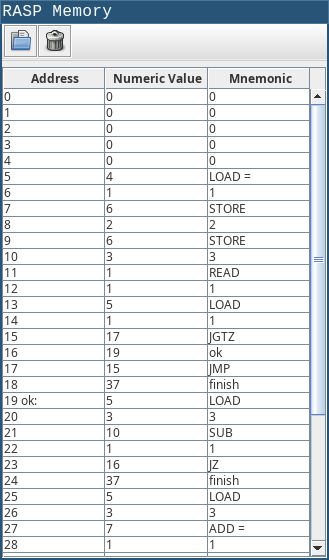
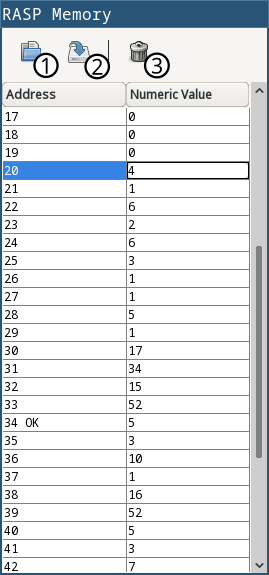
[#65, #58] RASP-mem rewrite

Changed region(s): [[0.0, 0.0, 1.0, 1.0]]

diff --git a/documentation/user/rasp/rasp-mem.html b/documentation/user/rasp/rasp-mem.html
@@ -1,1 +1,1 @@
-<!DOCTYPE html> <html lang="en-US"> <head> <meta charset="UTF-8"> <meta http-equiv="X-UA-Compatible" content="IE=Edge"> <title>Memory "rasp-mem" - User documentation for emuStudio</title> <link rel="shortcut icon" href="/documentation/user/favicon.ico" type="image/x-icon"> <link rel="stylesheet" href="/documentation/user/assets/css/just-the-docs-default.css"> <script async src="https://www.googletagmanager.com/gtag/js?id=UA-3492956-5"></script> <script> window.dataLayer = window.dataLayer || []; function gtag(){dataLayer.push(arguments);} gtag('js', new Date()); gtag('config', 'UA-3492956-5', { 'anonymize_ip': true }); </script> <script src="/documentation/user/assets/js/vendor/lunr.min.js"></script> <script src="https://cdn.jsdelivr.net/npm/mermaid@9.1.6/dist/mermaid.min.js"></script> <script src="/documentation/user/assets/js/just-the-docs.js"></script> <meta name="viewport" content="width=device-width, initial-scale=1"> <!-- Begin Jekyll SEO tag v2.8.0 --> <title>Memory “rasp-mem” | User documentation for emuStudio</title> <meta name="generator" content="Jekyll v4.3.1" /> <meta property="og:title" content="Memory “rasp-mem”" /> <meta property="og:locale" content="en_US" /> <meta name="description" content="User documentation for emuStudio 0.41. emuStudio is universal emulation platform and framework targeting mainly academic sphere." /> <meta property="og:description" content="User documentation for emuStudio 0.41. emuStudio is universal emulation platform and framework targeting mainly academic sphere." /> <link rel="canonical" href="/documentation/user/rasp/rasp-mem" /> <meta property="og:url" content="/documentation/user/rasp/rasp-mem" /> <meta property="og:site_name" content="User documentation for emuStudio" /> <meta property="og:type" content="website" /> <meta name="twitter:card" content="summary" /> <meta property="twitter:title" content="Memory “rasp-mem”" /> <script type="application/ld+json"> {"@context":"https://schema.org","@type":"WebPage","description":"User documentation for emuStudio 0.41. emuStudio is universal emulation platform and framework targeting mainly academic sphere.","headline":"Memory “rasp-mem”","publisher":{"@type":"Organization","logo":{"@type":"ImageObject","url":"/documentation/user/assets/logo-1.svg"}},"url":"/documentation/user/rasp/rasp-mem"}</script> <!-- End Jekyll SEO tag --> </head> <body> <a class="skip-to-main" href="#main-content">Skip to main content</a> <svg xmlns="http://www.w3.org/2000/svg" style="display: none;"> <symbol id="svg-link" viewBox="0 0 24 24"> <title>Link</title> <svg xmlns="http://www.w3.org/2000/svg" width="24" height="24" viewBox="0 0 24 24" fill="none" stroke="currentColor" stroke-width="2" stroke-linecap="round" stroke-linejoin="round" class="feather feather-link"> <path d="M10 13a5 5 0 0 0 7.54.54l3-3a5 5 0 0 0-7.07-7.07l-1.72 1.71"></path><path d="M14 11a5 5 0 0 0-7.54-.54l-3 3a5 5 0 0 0 7.07 7.07l1.71-1.71"></path> </svg> </symbol> <symbol id="svg-search" viewBox="0 0 24 24"> <title>Search</title> <svg xmlns="http://www.w3.org/2000/svg" width="24" height="24" viewBox="0 0 24 24" fill="none" stroke="currentColor" stroke-width="2" stroke-linecap="round" stroke-linejoin="round" class="feather feather-search"> <circle cx="11" cy="11" r="8"></circle><line x1="21" y1="21" x2="16.65" y2="16.65"></line> </svg> </symbol> <symbol id="svg-menu" viewBox="0 0 24 24"> <title>Menu</title> <svg xmlns="http://www.w3.org/2000/svg" width="24" height="24" viewBox="0 0 24 24" fill="none" stroke="currentColor" stroke-width="2" stroke-linecap="round" stroke-linejoin="round" class="feather feather-menu"> <line x1="3" y1="12" x2="21" y2="12"></line><line x1="3" y1="6" x2="21" y2="6"></line><line x1="3" y1="18" x2="21" y2="18"></line> </svg> </symbol> <symbol id="svg-arrow-right" viewBox="0 0 24 24"> <title>Expand</title> <svg xmlns="http://www.w3.org/2000/svg" width="24" height="24" viewBox="0 0 24 24" fill="none" stroke="currentColor" stroke-width="2" stroke-linecap="round" stroke-linejoin="round" class="feather feather-chevron-right"> <polyline points="9 18 15 12 9 6"></polyline> </svg> </symbol> <symbol id="svg-doc" viewBox="0 0 24 24"> <title>Document</title> <svg xmlns="http://www.w3.org/2000/svg" width="24" height="24" viewBox="0 0 24 24" fill="none" stroke="currentColor" stroke-width="2" stroke-linecap="round" stroke-linejoin="round" class="feather feather-file"> <path d="M13 2H6a2 2 0 0 0-2 2v16a2 2 0 0 0 2 2h12a2 2 0 0 0 2-2V9z"></path><polyline points="13 2 13 9 20 9"></polyline> </svg> </symbol> <!-- Feather. MIT License: https://github.com/feathericons/feather/blob/master/LICENSE --> <symbol id="svg-external-link" width="24" height="24" viewBox="0 0 24 24" fill="none" stroke="currentColor" stroke-width="2" stroke-linecap="round" stroke-linejoin="round" class="feather feather-external-link"> <title id="svg-external-link-title">(external link)</title> <path d="M18 13v6a2 2 0 0 1-2 2H5a2 2 0 0 1-2-2V8a2 2 0 0 1 2-2h6"></path><polyline points="15 3 21 3 21 9"></polyline><line x1="10" y1="14" x2="21" y2="3"></line> </symbol> </svg> <div class="side-bar"> <div class="site-header"> <a href="/documentation/user/" class="site-title lh-tight"> <div class="site-logo"></div> </a> <a href="#" id="menu-button" class="site-button"> <svg viewBox="0 0 24 24" class="icon"><use xlink:href="#svg-menu"></use></svg> </a> </div> <nav aria-label="Main" id="site-nav" class="site-nav"> <ul class="nav-list"><li class="nav-list-item"><a href="/documentation/user/introduction/" class="nav-list-link">Introduction</a></li><li class="nav-list-item"><a href="#" class="nav-list-expander" aria-label="toggle links in emuStudio Application category"> <svg viewBox="0 0 24 24"><use xlink:href="#svg-arrow-right"></use></svg> </a><a href="/documentation/user/application/" class="nav-list-link">emuStudio Application</a><ul class="nav-list "><li class="nav-list-item "><a href="/documentation/user/application/configuration-file" class="nav-list-link">Configuration file</a></li><li class="nav-list-item "><a href="/documentation/user/application/opening-computer" class="nav-list-link">Opening a computer</a></li><li class="nav-list-item "><a href="/documentation/user/application/computer-schema" class="nav-list-link">Computer schema</a></li><li class="nav-list-item "><a href="/documentation/user/application/main-window" class="nav-list-link">Main window</a></li><li class="nav-list-item "><a href="/documentation/user/application/automation" class="nav-list-link">Automation</a></li><li class="nav-list-item "><a href="/documentation/user/application/logging" class="nav-list-link">Logging</a></li></ul></li><li class="nav-list-item"><a href="#" class="nav-list-expander" aria-label="toggle links in MITS Altair8800 category"> <svg viewBox="0 0 24 24"><use xlink:href="#svg-arrow-right"></use></svg> </a><a href="/documentation/user/altair8800/" class="nav-list-link">MITS Altair8800</a><ul class="nav-list "><li class="nav-list-item "><a href="/documentation/user/altair8800/as-8080" class="nav-list-link">Assembler "as-8080"</a></li><li class="nav-list-item "><a href="/documentation/user/altair8800/as-z80" class="nav-list-link">Assembler "as-z80"</a></li><li class="nav-list-item "><a href="/documentation/user/altair8800/8080-cpu" class="nav-list-link">CPU "8080-cpu"</a></li><li class="nav-list-item "><a href="/documentation/user/altair8800/z80-cpu" class="nav-list-link">CPU "z80-cpu"</a></li><li class="nav-list-item "><a href="/documentation/user/altair8800/byte-mem" class="nav-list-link">Memory "byte-mem"</a></li><li class="nav-list-item "><a href="/documentation/user/altair8800/88-dcdd" class="nav-list-link">Device "88-dcdd"</a></li><li class="nav-list-item "><a href="/documentation/user/altair8800/88-sio" class="nav-list-link">Device "88-sio"</a></li><li class="nav-list-item "><a href="/documentation/user/altair8800/adm3a-terminal" class="nav-list-link">Device "adm3a-terminal"</a></li><li class="nav-list-item "><a href="/documentation/user/altair8800/simh-pseudo" class="nav-list-link">Device "simh-pseudo"</a></li><li class="nav-list-item "><a href="/documentation/user/altair8800/automation" class="nav-list-link">Automation</a></li><li class="nav-list-item "><a href="/documentation/user/altair8800/software" class="nav-list-link">Original software</a></li></ul></li><li class="nav-list-item"><a href="#" class="nav-list-expander" aria-label="toggle links in BrainDuck category"> <svg viewBox="0 0 24 24"><use xlink:href="#svg-arrow-right"></use></svg> </a><a href="/documentation/user/brainduck/" class="nav-list-link">BrainDuck</a><ul class="nav-list "><li class="nav-list-item "><a href="/documentation/user/brainduck/compiler" class="nav-list-link">Compiler "brainc-brainduck"</a></li><li class="nav-list-item "><a href="/documentation/user/brainduck/cpu" class="nav-list-link">CPU "brainduck-cpu"</a></li><li class="nav-list-item "><a href="/documentation/user/brainduck/terminal" class="nav-list-link">Terminal "vt100-terminal"</a></li><li class="nav-list-item "><a href="/documentation/user/brainduck/automation" class="nav-list-link">Automation</a></li><li class="nav-list-item "><a href="/documentation/user/brainduck/examples" class="nav-list-link">Example code</a></li></ul></li><li class="nav-list-item"><a href="#" class="nav-list-expander" aria-label="toggle links in RAM category"> <svg viewBox="0 0 24 24"><use xlink:href="#svg-arrow-right"></use></svg> </a><a href="/documentation/user/ram/" class="nav-list-link">RAM</a><ul class="nav-list "><li class="nav-list-item "><a href="/documentation/user/ram/ramc-ram" class="nav-list-link">Compiler "ramc-ram"</a></li><li class="nav-list-item "><a href="/documentation/user/ram/ram-cpu" class="nav-list-link">CPU "ram-cpu"</a></li><li class="nav-list-item "><a href="/documentation/user/ram/ram-mem" class="nav-list-link">Memory "ram-mem"</a></li><li class="nav-list-item "><a href="/documentation/user/ram/abstract-tape" class="nav-list-link">Abstract tape</a></li><li class="nav-list-item "><a href="/documentation/user/ram/automation" class="nav-list-link">Automation</a></li></ul></li><li class="nav-list-item active"><a href="#" class="nav-list-expander" aria-label="toggle links in RASP category"> <svg viewBox="0 0 24 24"><use xlink:href="#svg-arrow-right"></use></svg> </a><a href="/documentation/user/rasp/" class="nav-list-link">RASP</a><ul class="nav-list "><li class="nav-list-item "><a href="/documentation/user/rasp/raspc-rasp" class="nav-list-link">Compiler "raspc-rasp"</a></li><li class="nav-list-item "><a href="/documentation/user/rasp/rasp-cpu" class="nav-list-link">CPU "rasp-cpu"</a></li><li class="nav-list-item active"><a href="/documentation/user/rasp/rasp-mem" class="nav-list-link active">Memory "rasp-mem"</a></li><li class="nav-list-item "><a href="/documentation/user/rasp/automation" class="nav-list-link">Automation</a></li></ul></li><li class="nav-list-item"><a href="#" class="nav-list-expander" aria-label="toggle links in SSEM category"> <svg viewBox="0 0 24 24"><use xlink:href="#svg-arrow-right"></use></svg> </a><a href="/documentation/user/ssem/" class="nav-list-link">SSEM</a><ul class="nav-list "><li class="nav-list-item "><a href="/documentation/user/ssem/as-ssem" class="nav-list-link">Assembler "as-ssem"</a></li><li class="nav-list-item "><a href="/documentation/user/ssem/ssem-cpu" class="nav-list-link">CPU "ssem-cpu"</a></li><li class="nav-list-item "><a href="/documentation/user/ssem/ssem-mem" class="nav-list-link">Memory "ssem-mem"</a></li><li class="nav-list-item "><a href="/documentation/user/ssem/ssem-display" class="nav-list-link">Display "ssem-display"</a></li><li class="nav-list-item "><a href="/documentation/user/ssem/automation" class="nav-list-link">Automation</a></li><li class="nav-list-item "><a href="/documentation/user/ssem/software" class="nav-list-link">Software for SSEM</a></li></ul></li></ul> </nav> <footer class="site-footer"> This site uses <a href="https://github.com/just-the-docs/just-the-docs">Just the Docs</a>, a documentation theme for Jekyll. </footer> </div> <div class="main" id="top"> <div id="main-header" class="main-header"> <div class="search"> <div class="search-input-wrap"> <input type="text" id="search-input" class="search-input" tabindex="0" placeholder="Search User documentation for emuStudio" aria-label="Search User documentation for emuStudio" autocomplete="off"> <label for="search-input" class="search-label"><svg viewBox="0 0 24 24" class="search-icon"><use xlink:href="#svg-search"></use></svg></label> </div> <div id="search-results" class="search-results"></div> </div> <nav aria-label="Auxiliary" class="aux-nav"> <ul class="aux-nav-list"> <li class="aux-nav-list-item"> <a href="/" class="site-button" > Back to website </a> </li> </ul> </nav> </div> <div id="main-content-wrap" class="main-content-wrap"> <nav aria-label="Breadcrumb" class="breadcrumb-nav"> <ol class="breadcrumb-nav-list"> <li class="breadcrumb-nav-list-item"><a href="/documentation/user/rasp/">RASP</a></li> <li class="breadcrumb-nav-list-item"><span>Memory "rasp-mem"</span></li> </ol> </nav> <div id="main-content" class="main-content" role="main"> <script type="text/javascript"> gtag('event', 'userdoc', { 'event_category': 'RASP', 'event_label': 'Memory "rasp-mem"' }); </script> <h1 id="memory-rasp-mem"> <a href="#memory-rasp-mem" class="anchor-heading" aria-labelledby="memory-rasp-mem"><svg viewBox="0 0 16 16" aria-hidden="true"><use xlink:href="#svg-link"></use></svg></a> Memory “rasp-mem” </h1> <p>RASP memory plug-in serves as the main store (operating memory) for the RASP virtual computer. As already mentioned in the introduction of this manual, RASP is an example of von-Neumann architecture, which implies that both program and data reside in the same memory module.</p> <p>After compilation of a RASP source code file, the compiled program is loaded into here. During the process of the emulation, the CPU plug-in reads instructions and their operands and writes results of the operations from/to the memory.</p> <h2 id="graphical-user-interface-gui"> <a href="#graphical-user-interface-gui" class="anchor-heading" aria-labelledby="graphical-user-interface-gui"><svg viewBox="0 0 16 16" aria-hidden="true"><use xlink:href="#svg-link"></use></svg></a> Graphical user interface (GUI) </h2> <p>During the emulation, user can view the current content of the operating memory in a simple GUI window:</p> <p><img src="/documentation/user/assets/rasp/rasp-memory.png" alt="Memory GUI window" /></p> <p>It is also possible to load a compiled memory image from a file by clicking on the <img src="/documentation/user/assets/rasp/document-open.png" alt="OPEN icon" /> icon. Then you can choose the binary file you want to load.</p> <p>By clicking on the <img src="/documentation/user/assets/rasp/edit-delete.png" alt="CLEAN icon" /> icon, you can clean the entire memory content.</p> <p>The table with memory content is editable. By double-clicking on a row you can simply edit the value. You confirm your changes by the <code class="language-plaintext highlighter-rouge">ENTER</code> key.</p> <p>WARNING: If you edit a cell that contains an instruction, you edit its operation code, e.g. if a cell contains the <code class="language-plaintext highlighter-rouge">ADD =</code> instruction (operation code 7) and you change the cell to 9, the operation code will be overwritten. As a result, the instruction changes to <code class="language-plaintext highlighter-rouge">SUB =</code>. It means that you cannot write number 9 as a data item here, only as an operation code.</p> </div> </div> <div class="search-overlay"></div> </div> <script> var config = {} ; mermaid.initialize(config); window.mermaid.init(undefined, document.querySelectorAll('.language-mermaid')); </script> </body> </html>
+<!DOCTYPE html> <html lang="en-US"> <head> <meta charset="UTF-8"> <meta http-equiv="X-UA-Compatible" content="IE=Edge"> <title>Memory "rasp-mem" - User documentation for emuStudio</title> <link rel="shortcut icon" href="/documentation/user/favicon.ico" type="image/x-icon"> <link rel="stylesheet" href="/documentation/user/assets/css/just-the-docs-default.css"> <script async src="https://www.googletagmanager.com/gtag/js?id=UA-3492956-5"></script> <script> window.dataLayer = window.dataLayer || []; function gtag(){dataLayer.push(arguments);} gtag('js', new Date()); gtag('config', 'UA-3492956-5', { 'anonymize_ip': true }); </script> <script src="/documentation/user/assets/js/vendor/lunr.min.js"></script> <script src="https://cdn.jsdelivr.net/npm/mermaid@9.1.6/dist/mermaid.min.js"></script> <script src="/documentation/user/assets/js/just-the-docs.js"></script> <meta name="viewport" content="width=device-width, initial-scale=1"> <!-- Begin Jekyll SEO tag v2.8.0 --> <title>Memory “rasp-mem” | User documentation for emuStudio</title> <meta name="generator" content="Jekyll v4.3.1" /> <meta property="og:title" content="Memory “rasp-mem”" /> <meta property="og:locale" content="en_US" /> <meta name="description" content="User documentation for emuStudio 0.41. emuStudio is universal emulation platform and framework targeting mainly academic sphere." /> <meta property="og:description" content="User documentation for emuStudio 0.41. emuStudio is universal emulation platform and framework targeting mainly academic sphere." /> <link rel="canonical" href="/documentation/user/rasp/rasp-mem" /> <meta property="og:url" content="/documentation/user/rasp/rasp-mem" /> <meta property="og:site_name" content="User documentation for emuStudio" /> <meta property="og:type" content="website" /> <meta name="twitter:card" content="summary" /> <meta property="twitter:title" content="Memory “rasp-mem”" /> <script type="application/ld+json"> {"@context":"https://schema.org","@type":"WebPage","description":"User documentation for emuStudio 0.41. emuStudio is universal emulation platform and framework targeting mainly academic sphere.","headline":"Memory “rasp-mem”","publisher":{"@type":"Organization","logo":{"@type":"ImageObject","url":"/documentation/user/assets/logo-1.svg"}},"url":"/documentation/user/rasp/rasp-mem"}</script> <!-- End Jekyll SEO tag --> </head> <body> <a class="skip-to-main" href="#main-content">Skip to main content</a> <svg xmlns="http://www.w3.org/2000/svg" style="display: none;"> <symbol id="svg-link" viewBox="0 0 24 24"> <title>Link</title> <svg xmlns="http://www.w3.org/2000/svg" width="24" height="24" viewBox="0 0 24 24" fill="none" stroke="currentColor" stroke-width="2" stroke-linecap="round" stroke-linejoin="round" class="feather feather-link"> <path d="M10 13a5 5 0 0 0 7.54.54l3-3a5 5 0 0 0-7.07-7.07l-1.72 1.71"></path><path d="M14 11a5 5 0 0 0-7.54-.54l-3 3a5 5 0 0 0 7.07 7.07l1.71-1.71"></path> </svg> </symbol> <symbol id="svg-search" viewBox="0 0 24 24"> <title>Search</title> <svg xmlns="http://www.w3.org/2000/svg" width="24" height="24" viewBox="0 0 24 24" fill="none" stroke="currentColor" stroke-width="2" stroke-linecap="round" stroke-linejoin="round" class="feather feather-search"> <circle cx="11" cy="11" r="8"></circle><line x1="21" y1="21" x2="16.65" y2="16.65"></line> </svg> </symbol> <symbol id="svg-menu" viewBox="0 0 24 24"> <title>Menu</title> <svg xmlns="http://www.w3.org/2000/svg" width="24" height="24" viewBox="0 0 24 24" fill="none" stroke="currentColor" stroke-width="2" stroke-linecap="round" stroke-linejoin="round" class="feather feather-menu"> <line x1="3" y1="12" x2="21" y2="12"></line><line x1="3" y1="6" x2="21" y2="6"></line><line x1="3" y1="18" x2="21" y2="18"></line> </svg> </symbol> <symbol id="svg-arrow-right" viewBox="0 0 24 24"> <title>Expand</title> <svg xmlns="http://www.w3.org/2000/svg" width="24" height="24" viewBox="0 0 24 24" fill="none" stroke="currentColor" stroke-width="2" stroke-linecap="round" stroke-linejoin="round" class="feather feather-chevron-right"> <polyline points="9 18 15 12 9 6"></polyline> </svg> </symbol> <symbol id="svg-doc" viewBox="0 0 24 24"> <title>Document</title> <svg xmlns="http://www.w3.org/2000/svg" width="24" height="24" viewBox="0 0 24 24" fill="none" stroke="currentColor" stroke-width="2" stroke-linecap="round" stroke-linejoin="round" class="feather feather-file"> <path d="M13 2H6a2 2 0 0 0-2 2v16a2 2 0 0 0 2 2h12a2 2 0 0 0 2-2V9z"></path><polyline points="13 2 13 9 20 9"></polyline> </svg> </symbol> <!-- Feather. MIT License: https://github.com/feathericons/feather/blob/master/LICENSE --> <symbol id="svg-external-link" width="24" height="24" viewBox="0 0 24 24" fill="none" stroke="currentColor" stroke-width="2" stroke-linecap="round" stroke-linejoin="round" class="feather feather-external-link"> <title id="svg-external-link-title">(external link)</title> <path d="M18 13v6a2 2 0 0 1-2 2H5a2 2 0 0 1-2-2V8a2 2 0 0 1 2-2h6"></path><polyline points="15 3 21 3 21 9"></polyline><line x1="10" y1="14" x2="21" y2="3"></line> </symbol> </svg> <div class="side-bar"> <div class="site-header"> <a href="/documentation/user/" class="site-title lh-tight"> <div class="site-logo"></div> </a> <a href="#" id="menu-button" class="site-button"> <svg viewBox="0 0 24 24" class="icon"><use xlink:href="#svg-menu"></use></svg> </a> </div> <nav aria-label="Main" id="site-nav" class="site-nav"> <ul class="nav-list"><li class="nav-list-item"><a href="/documentation/user/introduction/" class="nav-list-link">Introduction</a></li><li class="nav-list-item"><a href="#" class="nav-list-expander" aria-label="toggle links in emuStudio Application category"> <svg viewBox="0 0 24 24"><use xlink:href="#svg-arrow-right"></use></svg> </a><a href="/documentation/user/application/" class="nav-list-link">emuStudio Application</a><ul class="nav-list "><li class="nav-list-item "><a href="/documentation/user/application/configuration-file" class="nav-list-link">Configuration file</a></li><li class="nav-list-item "><a href="/documentation/user/application/opening-computer" class="nav-list-link">Opening a computer</a></li><li class="nav-list-item "><a href="/documentation/user/application/computer-schema" class="nav-list-link">Computer schema</a></li><li class="nav-list-item "><a href="/documentation/user/application/main-window" class="nav-list-link">Main window</a></li><li class="nav-list-item "><a href="/documentation/user/application/automation" class="nav-list-link">Automation</a></li><li class="nav-list-item "><a href="/documentation/user/application/logging" class="nav-list-link">Logging</a></li></ul></li><li class="nav-list-item"><a href="#" class="nav-list-expander" aria-label="toggle links in MITS Altair8800 category"> <svg viewBox="0 0 24 24"><use xlink:href="#svg-arrow-right"></use></svg> </a><a href="/documentation/user/altair8800/" class="nav-list-link">MITS Altair8800</a><ul class="nav-list "><li class="nav-list-item "><a href="/documentation/user/altair8800/as-8080" class="nav-list-link">Assembler "as-8080"</a></li><li class="nav-list-item "><a href="/documentation/user/altair8800/as-z80" class="nav-list-link">Assembler "as-z80"</a></li><li class="nav-list-item "><a href="/documentation/user/altair8800/8080-cpu" class="nav-list-link">CPU "8080-cpu"</a></li><li class="nav-list-item "><a href="/documentation/user/altair8800/z80-cpu" class="nav-list-link">CPU "z80-cpu"</a></li><li class="nav-list-item "><a href="/documentation/user/altair8800/byte-mem" class="nav-list-link">Memory "byte-mem"</a></li><li class="nav-list-item "><a href="/documentation/user/altair8800/88-dcdd" class="nav-list-link">Device "88-dcdd"</a></li><li class="nav-list-item "><a href="/documentation/user/altair8800/88-sio" class="nav-list-link">Device "88-sio"</a></li><li class="nav-list-item "><a href="/documentation/user/altair8800/adm3a-terminal" class="nav-list-link">Device "adm3a-terminal"</a></li><li class="nav-list-item "><a href="/documentation/user/altair8800/simh-pseudo" class="nav-list-link">Device "simh-pseudo"</a></li><li class="nav-list-item "><a href="/documentation/user/altair8800/automation" class="nav-list-link">Automation</a></li><li class="nav-list-item "><a href="/documentation/user/altair8800/software" class="nav-list-link">Original software</a></li></ul></li><li class="nav-list-item"><a href="#" class="nav-list-expander" aria-label="toggle links in BrainDuck category"> <svg viewBox="0 0 24 24"><use xlink:href="#svg-arrow-right"></use></svg> </a><a href="/documentation/user/brainduck/" class="nav-list-link">BrainDuck</a><ul class="nav-list "><li class="nav-list-item "><a href="/documentation/user/brainduck/compiler" class="nav-list-link">Compiler "brainc-brainduck"</a></li><li class="nav-list-item "><a href="/documentation/user/brainduck/cpu" class="nav-list-link">CPU "brainduck-cpu"</a></li><li class="nav-list-item "><a href="/documentation/user/brainduck/terminal" class="nav-list-link">Terminal "vt100-terminal"</a></li><li class="nav-list-item "><a href="/documentation/user/brainduck/automation" class="nav-list-link">Automation</a></li><li class="nav-list-item "><a href="/documentation/user/brainduck/examples" class="nav-list-link">Example code</a></li></ul></li><li class="nav-list-item"><a href="#" class="nav-list-expander" aria-label="toggle links in RAM category"> <svg viewBox="0 0 24 24"><use xlink:href="#svg-arrow-right"></use></svg> </a><a href="/documentation/user/ram/" class="nav-list-link">RAM</a><ul class="nav-list "><li class="nav-list-item "><a href="/documentation/user/ram/ramc-ram" class="nav-list-link">Compiler "ramc-ram"</a></li><li class="nav-list-item "><a href="/documentation/user/ram/ram-cpu" class="nav-list-link">CPU "ram-cpu"</a></li><li class="nav-list-item "><a href="/documentation/user/ram/ram-mem" class="nav-list-link">Memory "ram-mem"</a></li><li class="nav-list-item "><a href="/documentation/user/ram/abstract-tape" class="nav-list-link">Abstract tape</a></li><li class="nav-list-item "><a href="/documentation/user/ram/automation" class="nav-list-link">Automation</a></li></ul></li><li class="nav-list-item active"><a href="#" class="nav-list-expander" aria-label="toggle links in RASP category"> <svg viewBox="0 0 24 24"><use xlink:href="#svg-arrow-right"></use></svg> </a><a href="/documentation/user/rasp/" class="nav-list-link">RASP</a><ul class="nav-list "><li class="nav-list-item "><a href="/documentation/user/rasp/raspc-rasp" class="nav-list-link">Compiler "raspc-rasp"</a></li><li class="nav-list-item "><a href="/documentation/user/rasp/rasp-cpu" class="nav-list-link">CPU "rasp-cpu"</a></li><li class="nav-list-item active"><a href="/documentation/user/rasp/rasp-mem" class="nav-list-link active">Memory "rasp-mem"</a></li><li class="nav-list-item "><a href="/documentation/user/rasp/automation" class="nav-list-link">Automation</a></li></ul></li><li class="nav-list-item"><a href="#" class="nav-list-expander" aria-label="toggle links in SSEM category"> <svg viewBox="0 0 24 24"><use xlink:href="#svg-arrow-right"></use></svg> </a><a href="/documentation/user/ssem/" class="nav-list-link">SSEM</a><ul class="nav-list "><li class="nav-list-item "><a href="/documentation/user/ssem/as-ssem" class="nav-list-link">Assembler "as-ssem"</a></li><li class="nav-list-item "><a href="/documentation/user/ssem/ssem-cpu" class="nav-list-link">CPU "ssem-cpu"</a></li><li class="nav-list-item "><a href="/documentation/user/ssem/ssem-mem" class="nav-list-link">Memory "ssem-mem"</a></li><li class="nav-list-item "><a href="/documentation/user/ssem/ssem-display" class="nav-list-link">Display "ssem-display"</a></li><li class="nav-list-item "><a href="/documentation/user/ssem/automation" class="nav-list-link">Automation</a></li><li class="nav-list-item "><a href="/documentation/user/ssem/software" class="nav-list-link">Software for SSEM</a></li></ul></li></ul> </nav> <footer class="site-footer"> This site uses <a href="https://github.com/just-the-docs/just-the-docs">Just the Docs</a>, a documentation theme for Jekyll. </footer> </div> <div class="main" id="top"> <div id="main-header" class="main-header"> <div class="search"> <div class="search-input-wrap"> <input type="text" id="search-input" class="search-input" tabindex="0" placeholder="Search User documentation for emuStudio" aria-label="Search User documentation for emuStudio" autocomplete="off"> <label for="search-input" class="search-label"><svg viewBox="0 0 24 24" class="search-icon"><use xlink:href="#svg-search"></use></svg></label> </div> <div id="search-results" class="search-results"></div> </div> <nav aria-label="Auxiliary" class="aux-nav"> <ul class="aux-nav-list"> <li class="aux-nav-list-item"> <a href="/" class="site-button" > Back to website </a> </li> </ul> </nav> </div> <div id="main-content-wrap" class="main-content-wrap"> <nav aria-label="Breadcrumb" class="breadcrumb-nav"> <ol class="breadcrumb-nav-list"> <li class="breadcrumb-nav-list-item"><a href="/documentation/user/rasp/">RASP</a></li> <li class="breadcrumb-nav-list-item"><span>Memory "rasp-mem"</span></li> </ol> </nav> <div id="main-content" class="main-content" role="main"> <script type="text/javascript"> gtag('event', 'userdoc', { 'event_category': 'RASP', 'event_label': 'Memory "rasp-mem"' }); </script> <h1 id="memory-rasp-mem"> <a href="#memory-rasp-mem" class="anchor-heading" aria-labelledby="memory-rasp-mem"><svg viewBox="0 0 16 16" aria-hidden="true"><use xlink:href="#svg-link"></use></svg></a> Memory “rasp-mem” </h1> <p>RASP memory plug-in is the main store (operating memory) used in RASP virtual computer. RASP is an example of von-Neumann architecture, which implies that both program and data reside in the same memory.</p> <p>After compilation of a RASP source code, the compiled program is loaded into RASP memory. During the process of the emulation, the CPU plug-in reads instructions and their operands from the memory and writes results back to the same memory (except reading inputs and writing outputs).</p> <h2 id="graphical-user-interface-gui"> <a href="#graphical-user-interface-gui" class="anchor-heading" aria-labelledby="graphical-user-interface-gui"><svg viewBox="0 0 16 16" aria-hidden="true"><use xlink:href="#svg-link"></use></svg></a> Graphical user interface (GUI) </h2> <p>RASP memory has a simple window, which can be accessed from the debug panel in emuStudio:</p> <p><img src="/documentation/user/assets/rasp/rasp-memory.png" alt="RASP memory window" /></p> <div class="table-wrapper"><table class="list"> <tbody> <tr> <td><span class="circle">1</span></td> <td>Open already compiled program into memory. The previous program will be dismissed. RASP binary files has extension <code class="language-plaintext highlighter-rouge">.brasp</code>.</td> </tr> <tr> <td><span class="circle">2</span></td> <td>Dump memory content into a file (either human-readable or <code class="language-plaintext highlighter-rouge">.brasp</code>).</td> </tr> <tr> <td><span class="circle">3</span></td> <td>Clears memory.</td> </tr> </tbody> </table></div> <p>The table with memory content is editable. By double-clicking on a row you can simply edit the value. You confirm your changes by the <code class="language-plaintext highlighter-rouge">ENTER</code> key:</p> <p><img src="/documentation/user/assets/rasp/rasp-memory-edit.png" alt="RASP memory window" /></p> <p>NOTE: By editing an opcode cell (a cell that contains an instruction opcode), the instruction is changed. It is also possible to set invalid opcode values, which then results in “address fallout” error during emulation.</p> <p>For example, if a cell contains the <code class="language-plaintext highlighter-rouge">ADD =</code> instruction (operation code 7), which is then changed to 9 (<code class="language-plaintext highlighter-rouge">SUB =</code>), the instruction on that location will be now changed and emuStudio will interpret it as such.</p> </div> </div> <div class="search-overlay"></div> </div> <script> var config = {} ; mermaid.initialize(config); window.mermaid.init(undefined, document.querySelectorAll('.language-mermaid')); </script> </body> </html>

diff --git a/_documentation/user/_doc/rasp/rasp-mem.md b/_documentation/user/_doc/rasp/rasp-mem.md
@@ -10,30 +10,31 @@ permalink: /rasp/rasp-mem
 
 # Memory "rasp-mem"
 
-RASP memory plug-in serves as the main store (operating memory) for the RASP virtual computer. As already mentioned in
-the introduction of this manual, RASP is an example of von-Neumann architecture, which implies that both program and
-data reside in the same memory module.
+RASP memory plug-in is the main store (operating memory) used in RASP virtual computer. RASP is an example of
+von-Neumann architecture, which implies that both program and data reside in the same memory.
 
-After compilation of a RASP source code file, the compiled program is loaded into here. During the process of the
-emulation, the CPU plug-in reads instructions and their operands and writes results of the operations from/to the
-memory.
+After compilation of a RASP source code, the compiled program is loaded into RASP memory. During the process of the
+emulation, the CPU plug-in reads instructions and their operands from the memory and writes results back to the same
+memory (except reading inputs and writing outputs).
 
 ## Graphical user interface (GUI)
 
-During the emulation, user can view the current content of the operating memory in a simple GUI window:
+RASP memory has a simple window, which can be accessed from the debug panel in emuStudio:
 
-![Memory GUI window]({{ site.baseurl }}/assets/rasp/rasp-memory.png)
+![RASP memory window]({{ site.baseurl }}/assets/rasp/rasp-memory.png)
 
-It is also possible to load a compiled memory image from a file by clicking on the 
-![OPEN icon]({{ site.baseurl}}/assets/rasp/document-open.png) icon. Then you can choose the binary file you want to load.
-
-By clicking on the ![CLEAN icon]({{ site.baseurl }}/assets/rasp/edit-delete.png) icon, you can clean the entire memory
-content.
+{: .list}
+| <span class="circle">1</span> | Open already compiled program into memory. The previous program will be dismissed. RASP binary files has extension `.brasp`.
+| <span class="circle">2</span> | Dump memory content into a file (either human-readable or `.brasp`).
+| <span class="circle">3</span> | Clears memory.
 
 The table with memory content is editable. By double-clicking on a row you can simply edit the value. You confirm your
-changes by the `ENTER` key.
+changes by the `ENTER` key:
 
-WARNING: If you edit a cell that contains an instruction, you edit its operation code, e.g. if a cell contains
-the `ADD =` instruction (operation code 7) and you change the cell to 9, the operation code will be overwritten. As a
-result, the instruction changes to `SUB =`. It means that you cannot write number 9 as a data item here, only as an
-operation code.
+![RASP memory window]({{ site.baseurl }}/assets/rasp/rasp-memory-edit.png)
+
+NOTE: By editing an opcode cell (a cell that contains an instruction opcode), the instruction is changed. It is also possible
+to set invalid opcode values, which then results in "address fallout" error during emulation.
+
+For example, if a cell contains the `ADD =` instruction (operation code 7), which is then changed to 9 (`SUB =`), 
+the instruction on that location will be now changed and emuStudio will interpret it as such.
